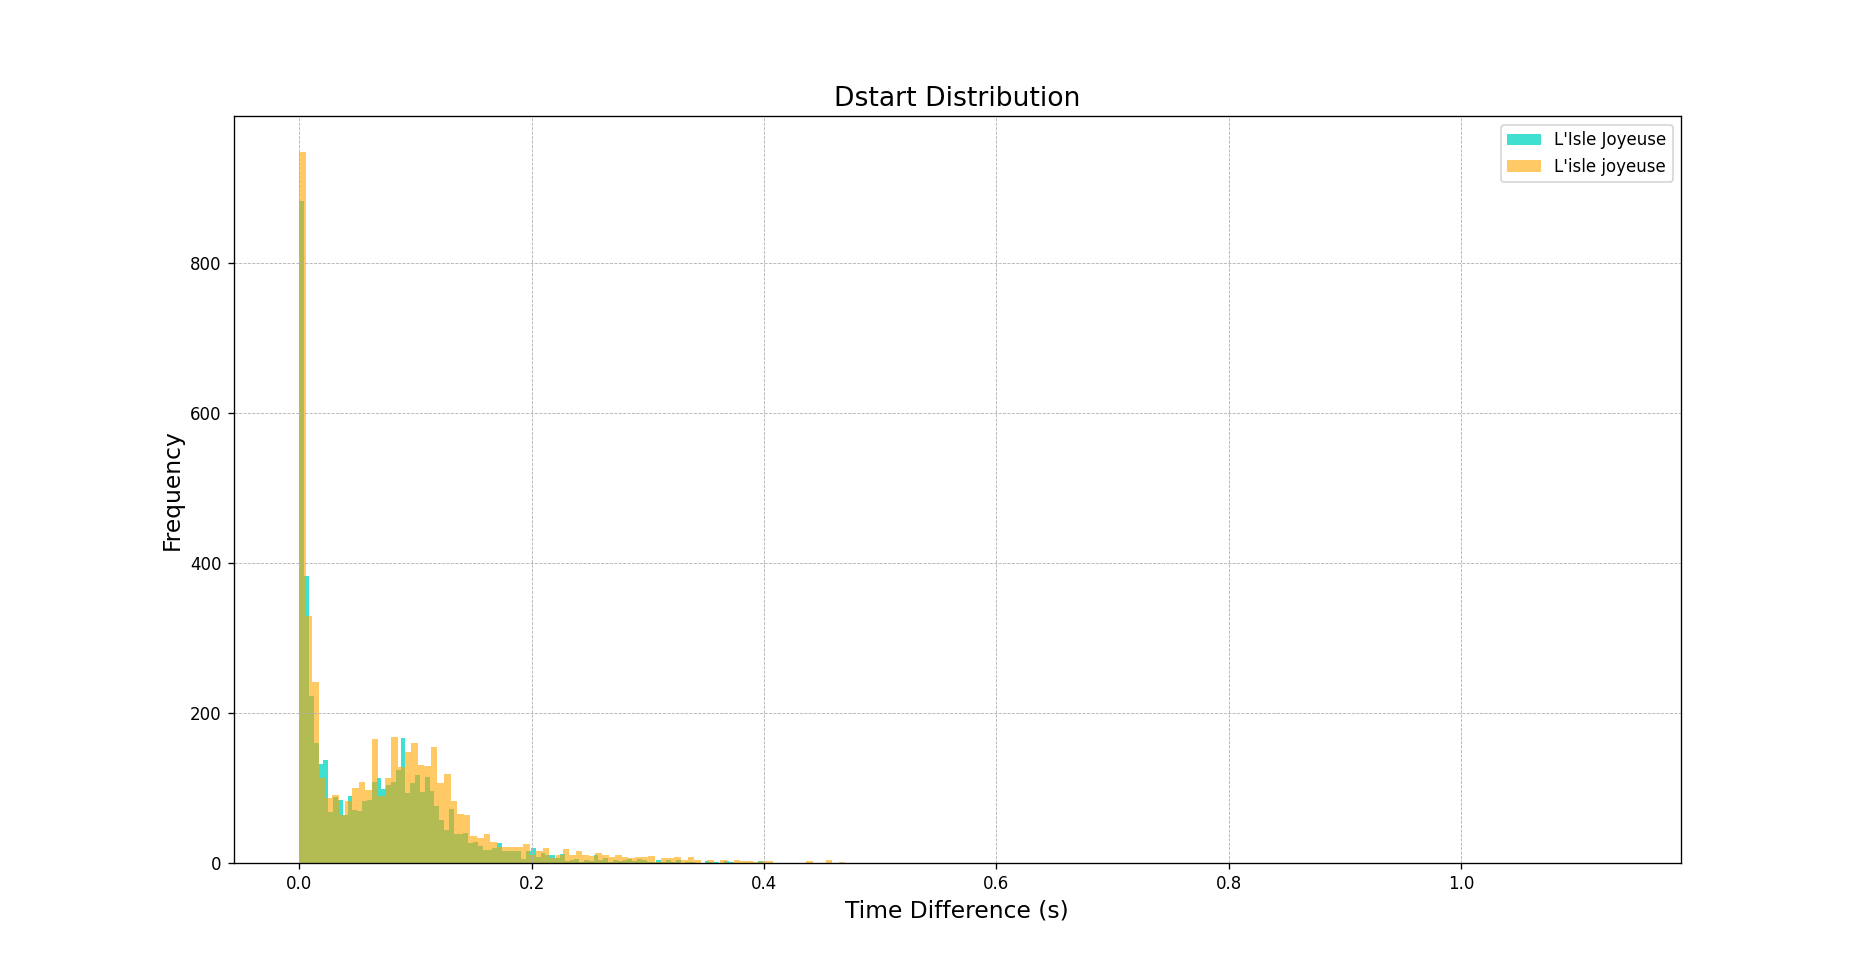
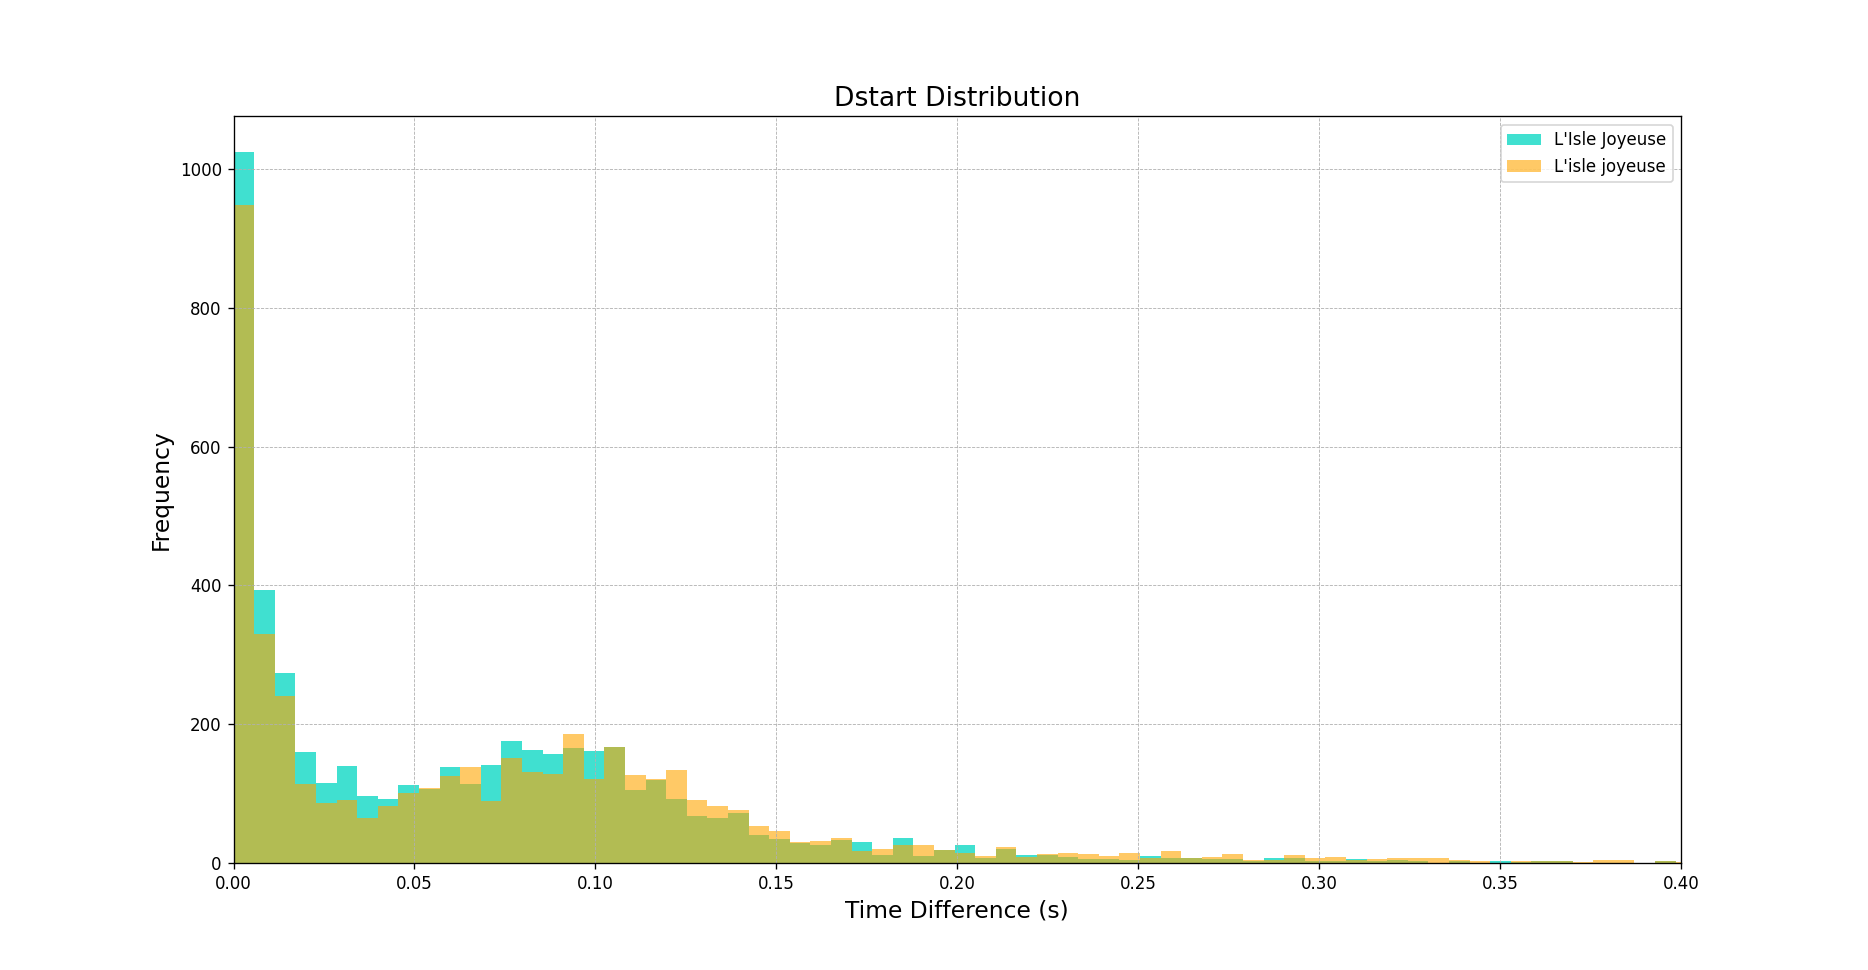
better graphs

Changed region(s): [[0.0931, 0.1546, 0.8073, 0.9278], [0.0621, 0.4639, 0.0931, 0.5567]]

diff --git a/midi_basics/two_performances.py b/midi_basics/two_performances.py
@@ -2,6 +2,7 @@ import yaml
 import fortepyan as ff
 import matplotlib.pyplot as plt
 from datasets import load_dataset
+import numpy as np
 
 
 def plot_histogram(data1, data2, label1, label2, xlabel, ylabel, title, bins=88):
@@ -24,7 +25,7 @@ def plot_histogram(data1, data2, label1, label2, xlabel, ylabel, title, bins=88)
     ax.legend(loc="upper center", bbox_to_anchor=(0.5, -0.2), fontsize=12)
     ax.grid(True, linestyle="--", linewidth=0.5)
     plt.legend()
-    plt.show()
+    return fig, ax
 
 
 def main():
@@ -41,15 +42,15 @@ def main():
 
     # Filenames of MIDI files from maestro dataset to be compared
     # Different pieces
-    filenames = [
-        "2004/MIDI-Unprocessed_SMF_12_01_2004_01-05_ORIG_MID--AUDIO_12_R1_2004_07_Track07_wav.midi",
-        "2008/MIDI-Unprocessed_02_R3_2008_01-03_ORIG_MID--AUDIO_02_R3_2008_wav--2.midi",
-    ]
-    # Different performances
     # filenames = [
-    #     "2011/MIDI-Unprocessed_15_R1_2011_MID--AUDIO_R1-D6_10_Track10_wav.midi",
-    #     "2014/MIDI-UNPROCESSED_06-08_R1_2014_MID--AUDIO_07_R1_2014_wav--6.midi",
+    #     "2004/MIDI-Unprocessed_SMF_12_01_2004_01-05_ORIG_MID--AUDIO_12_R1_2004_07_Track07_wav.midi",
+    #     "2008/MIDI-Unprocessed_02_R3_2008_01-03_ORIG_MID--AUDIO_02_R3_2008_wav--2.midi",
     # ]
+    # Different performances
+    filenames = [
+        "2011/MIDI-Unprocessed_15_R1_2011_MID--AUDIO_R1-D6_10_Track10_wav.midi",
+        "2014/MIDI-UNPROCESSED_06-08_R1_2014_MID--AUDIO_07_R1_2014_wav--6.midi",
+    ]
 
     for filename in filenames:
         idx = source_df["midi_filename"] == filename
@@ -72,7 +73,7 @@ def main():
     label2 = get_truncated_title(second_piece)
 
     # Plot pitch comparison
-    plot_histogram(
+    fig, ax = plot_histogram(
         data1=first_piece.df.pitch,
         data2=second_piece.df.pitch,
         label1=label1,
@@ -87,7 +88,8 @@ def main():
     second_piece.df["dstart"] = second_piece.df.start.diff().shift(-1)
 
     # Plot dstart comparison
-    plot_histogram(
+    bins = np.linspace(0, max(first_piece.df.dstart.max(), second_piece.df.dstart.max()), num=200)
+    fig, ax = plot_histogram(
         data1=first_piece.df.dstart.dropna(),
         data2=second_piece.df.dstart.dropna(),
         label1=label1,
@@ -95,8 +97,10 @@ def main():
         xlabel="Time Difference (s)",
         ylabel="Frequency",
         title="Dstart Distribution",
-        bins=200,
+        bins=bins,
     )
+    ax.set_xlim((0, 0.4))
+    plt.show()
 
 
 if __name__ == "__main__":

diff --git a/presentation.py b/presentation.py
@@ -94,7 +94,7 @@ slides = [
     {
         "header": "Yuja Wang transcribed by Basic Pitch",
         "video": "data/Yuja_Wang.mp4",
-        "piece_paths": ["data/midi/yuja_wang.mid", "data/midi/bumblebee.mid"],
+        "piece_paths": ["data/midi/yuja_wang.mid"],
     },
     # MIDI sequence
     {
@@ -212,6 +212,17 @@ slides = [
     {
         "images": ["data/img/bpe.png"],
     },
+    # links
+    {
+        "content":
+    """
+    Maestro dataset: https://magenta.tensorflow.org/datasets/maestro
+    Github: https://github.com/Nospoko
+    My Github: https://github.com/WojciechMat
+    Presentation repo: https://github.com/Nospoko/midi-pydata-london-24
+    Email: wmatejuk14@gmail.com
+    """
+    }
 ]
 
 
